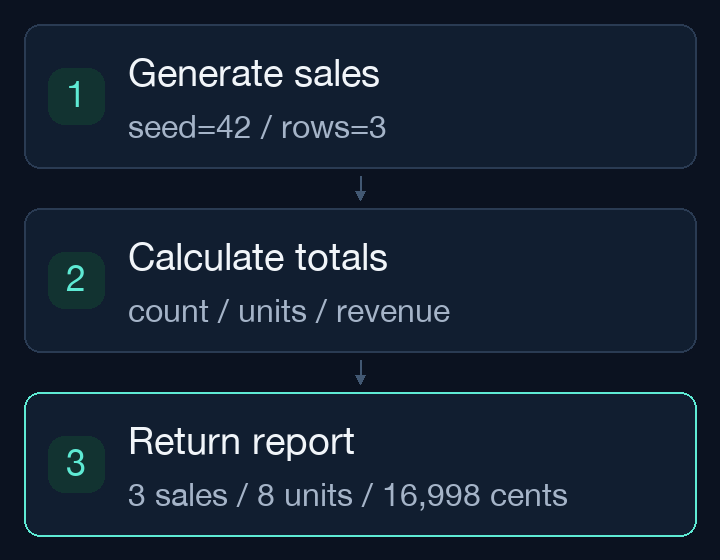
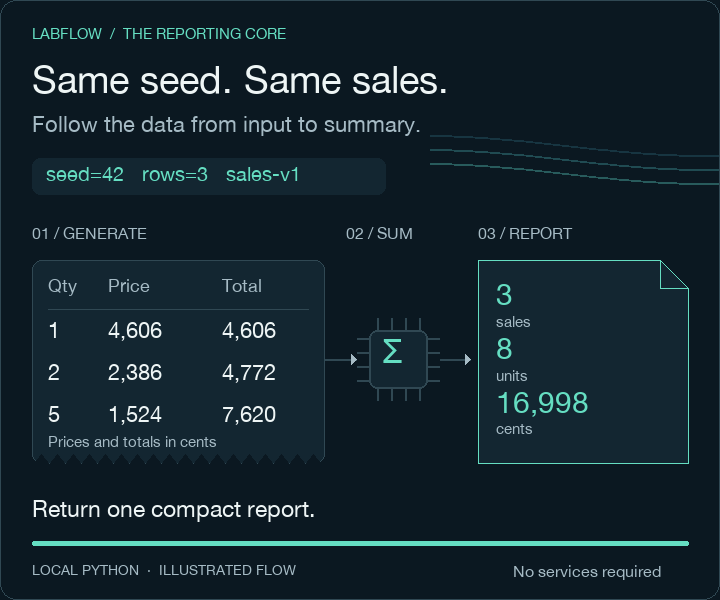
docs: animate README and explain job architecture

diff --git a/.github/scripts/render_readme_assets.py b/.github/scripts/render_readme_assets.py
@@ -1,17 +1,26 @@
 """Render the illustrative local-calculation flow used in the README."""
 
 from dataclasses import dataclass
+from functools import cache
+from math import pi, sin
 from pathlib import Path
 
 from PIL import Image, ImageDraw, ImageFont
 
+from labflow.reporting import summarize_sales
+from labflow.synthetic import GENERATOR_VERSION, generate_sales
+
 ROOT = Path(__file__).resolve().parents[2]
 ASSETS = ROOT / "docs" / "assets"
-SIZE = (720, 560)
-BACKGROUND = "#0b1220"
-TEXT = "#f1f5f9"
-MUTED = "#a5b4c8"
-ACCENT = "#5eead4"
+SIZE = (720, 600)
+BACKGROUND = "#0b1821"
+SURFACE = "#132631"
+TEXT = "#eef5f5"
+MUTED = "#a6bbc5"
+ACCENT = "#65dec2"
+LINE = "#304853"
+SALES = generate_sales(seed=42, rows=3)
+REPORT = summarize_sales(SALES)
 
 
 @dataclass(frozen=True)
@@ -20,9 +29,10 @@ class TextStyle:
 
     size: int
     color: str = TEXT
-    max_width: int = 544
+    max_width: int = 656
 
 
+@cache
 def font(size: int) -> ImageFont.FreeTypeFont:
     """Use an available TrueType font without distributing font files."""
     candidates = (
@@ -45,57 +55,141 @@ def text(
     face = font(style.size)
     if draw.textlength(value, font=face) > style.max_width:
         raise ValueError(f"Label exceeds allocated width: {value}")
-    draw.text(xy, value, font=face, fill=style.color)
+    draw.text(xy, value, font=face, fill=style.color, anchor="lt")
+
+
+def heading(draw: ImageDraw.ImageDraw, progress: float) -> None:
+    """Draw the title and a quiet wave motif without a hosted asset."""
+    for offset, color in ((0, "#173541"), (14, "#204b52"), (28, "#285b5c")):
+        points = [
+            (x, 145 + offset + round(10 * sin(x / 90 + progress * 2 * pi)))
+            for x in range(430, 721, 3)
+        ]
+        draw.line(points, fill=color, width=2)
+    text(draw, (32, 28), "LABFLOW  /  THE REPORTING CORE", TextStyle(15, ACCENT))
+    text(draw, (32, 65), "Same seed. Same sales.", TextStyle(38))
+    text(
+        draw, (32, 116), "Follow the data from input to summary.", TextStyle(22, MUTED)
+    )
+    draw.rounded_rectangle((32, 158, 385, 194), radius=8, fill=SURFACE)
+    text(
+        draw,
+        (46, 167),
+        f"seed=42   rows=3   {GENERATOR_VERSION}",
+        TextStyle(20, ACCENT, 325),
+    )
+
+
+def sales_sheet(draw: ImageDraw.ImageDraw, progress: float) -> None:
+    """Illustrate the three actual sample records as an itemized receipt."""
+    text(draw, (32, 227), "01 / GENERATE", TextStyle(16, MUTED, 292))
+    draw.rounded_rectangle((32, 260, 324, 463), radius=10, fill=SURFACE, outline=LINE)
+    for x in range(33, 317, 16):
+        draw.polygon(((x, 464), (x + 8, 454), (x + 16, 464)), fill=BACKGROUND)
+    for x, label in ((48, "Qty"), (108, "Price"), (222, "Total")):
+        text(draw, (x, 279), label, TextStyle(18, MUTED, 85))
+    draw.line((48, 309, 308, 309), fill=LINE, width=1)
+    for index, sale in enumerate(SALES):
+        top = 322 + index * 42
+        selected = 0.12 + index * 0.18 <= progress < 0.30 + index * 0.18
+        if selected:
+            draw.rounded_rectangle(
+                (41, top - 5, 315, top + 28), radius=5, fill="#234638"
+            )
+        values = (
+            str(sale.quantity),
+            f"{sale.unit_price_cents:,}",
+            f"{sale.total_cents:,}",
+        )
+        for x, value in zip((48, 108, 222), values):
+            text(draw, (x, top), value, TextStyle(22, ACCENT if selected else TEXT, 86))
+    text(draw, (48, 436), "Prices and totals in cents", TextStyle(15, MUTED, 260))
+
+
+def processor(draw: ImageDraw.ImageDraw, progress: float) -> None:
+    """Move one illustrated record at a time through the aggregation chip."""
+    text(draw, (346, 227), "02 / SUM", TextStyle(16, MUTED, 110))
+    working = 0.12 <= progress < 0.72
+    color = ACCENT if working else LINE
+    for position in range(338, 381, 14):
+        draw.line((357, position, 369, position), fill=color, width=2)
+        draw.line((427, position, 439, position), fill=color, width=2)
+    for position in range(377, 420, 14):
+        draw.line((position, 318, position, 330), fill=color, width=2)
+        draw.line((position, 388, position, 400), fill=color, width=2)
+    draw.rounded_rectangle(
+        (369, 330, 427, 388), radius=8, fill=SURFACE, outline=color, width=2
+    )
+    text(draw, (382, 339), "Σ", TextStyle(34, ACCENT, 38))
+    for start, end in ((325, 356), (440, 470)):
+        draw.line((start, 359, end, 359), fill=LINE, width=2)
+        draw.polygon(((end - 5, 354), (end, 359), (end - 5, 364)), fill=MUTED)
+    if working:
+        position = round(325 + ((progress - 0.12) / 0.18 % 1) * 145)
+        if position < 357 or position > 439:
+            draw.ellipse((position - 4, 355, position + 4, 363), fill=ACCENT)
+
+
+def report_sheet(draw: ImageDraw.ImageDraw, progress: float) -> None:
+    """Reveal the compact result after the illustrated calculation finishes."""
+    text(draw, (478, 227), "03 / REPORT", TextStyle(16, MUTED, 210))
+    ready = progress >= 0.72
+    draw.polygon(
+        ((478, 260), (660, 260), (688, 288), (688, 463), (478, 463)),
+        fill=SURFACE,
+        outline=ACCENT if ready else LINE,
+    )
+    draw.line((660, 260, 660, 288, 688, 288), fill=ACCENT if ready else LINE, width=1)
+    for top, label, key in (
+        (284, "sales", "sales_count"),
+        (338, "units", "units_sold"),
+        (392, "cents", "revenue_cents"),
+    ):
+        value = f"{REPORT[key]:,}" if ready else "—"
+        text(draw, (496, top), value, TextStyle(30, ACCENT if ready else MUTED, 170))
+        text(draw, (496, top + 32), label, TextStyle(15, MUTED, 170))
+
+
+def timeline(draw: ImageDraw.ImageDraw, progress: float) -> None:
+    """Show the current phase; timing is illustrative, never a benchmark."""
+    if progress < 0.12:
+        label = "Generate three reproducible sale records."
+    elif progress < 0.72:
+        label = "Count sales. Add units. Sum quantity × price."
+    else:
+        label = "Return one compact report."
+    text(draw, (32, 500), label, TextStyle(23))
+    draw.rounded_rectangle((32, 541, 688, 545), radius=2, fill=LINE)
+    draw.rounded_rectangle(
+        (32, 541, 33 + round(progress * 655), 545), radius=2, fill=ACCENT
+    )
+    text(draw, (32, 565), "LOCAL PYTHON  ·  ILLUSTRATED FLOW", TextStyle(14, MUTED))
+    text(draw, (513, 565), "No services required", TextStyle(16, MUTED, 175))
 
 
 def frame(progress: float) -> Image.Image:
-    """Illustrate generation, aggregation and a compact result."""
+    """Compose the receipt, computation and result at one animation position."""
     image = Image.new("RGB", SIZE, BACKGROUND)
     draw = ImageDraw.Draw(image)
-    cards = (
-        ("Generate sales", "seed=42 / rows=3"),
-        ("Calculate totals", "count / units / revenue"),
-        ("Return report", "3 sales / 8 units / 16,998 cents"),
-    )
-    active = min(int(progress * 3), 2)
-    for index, (title, detail) in enumerate(cards):
-        top = 24 + index * 184
-        draw.rounded_rectangle(
-            (24, top, 696, top + 144),
-            radius=16,
-            fill="#111e30",
-            outline=ACCENT if index == active else "#2a3b53",
-            width=2,
-        )
-        draw.rounded_rectangle(
-            (48, top + 44, 104, top + 100), radius=16, fill="#123331"
-        )
-        text(
-            draw,
-            (66, top + 48),
-            str(index + 1),
-            TextStyle(36, ACCENT if index <= active else MUTED, 40),
-        )
-        text(draw, (128, top + 25), title, TextStyle(38))
-        text(draw, (128, top + 83), detail, TextStyle(32, MUTED))
-    for top, bottom in ((176, 200), (360, 384)):
-        draw.line((360, top, 360, bottom - 7), fill="#425873", width=2)
-        draw.polygon(
-            ((355, bottom - 9), (360, bottom), (365, bottom - 9)), fill="#425873"
-        )
-    if active < 2:
-        fraction = progress * 3 - active
-        y = 176 + active * 184 + round(fraction * 17)
-        draw.ellipse((355, y - 5, 365, y + 5), fill=ACCENT)
+    draw.rounded_rectangle((0, 0, 719, 599), radius=16, outline=LINE)
+    heading(draw, progress)
+    sales_sheet(draw, progress)
+    processor(draw, progress)
+    report_sheet(draw, progress)
+    timeline(draw, progress)
     return image
 
 
 def main() -> None:
     """Write the animated and static assets with the same labels and layout."""
     ASSETS.mkdir(parents=True, exist_ok=True)
-    frames = [frame(index / 53) for index in range(54)]
+    frames = [frame(index / 71) for index in range(72)]
     frames[-1].save(ASSETS / "labflow-flow.png", optimize=True)
-    palette = frames[-1].quantize(colors=128, dither=Image.Dither.NONE)
+    # Include every phase so highlights and moving elements share stable colors.
+    samples = Image.new("RGB", (SIZE[0], SIZE[1] * 3))
+    for index, source in enumerate((frames[0], frames[30], frames[-1])):
+        samples.paste(source, (0, index * SIZE[1]))
+    palette = samples.quantize(colors=128, dither=Image.Dither.NONE)
     indexed = [
         image.quantize(palette=palette, dither=Image.Dither.NONE) for image in frames
     ]
@@ -103,7 +197,7 @@ def main() -> None:
         ASSETS / "labflow-flow.gif",
         save_all=True,
         append_images=indexed[1:],
-        duration=[80] * 53 + [1200],
+        duration=[90] * 71 + [1800],
         loop=0,
         optimize=True,
         disposal=1,

diff --git a/README.md b/README.md
@@ -9,17 +9,17 @@
 [![Style: Black](https://img.shields.io/badge/style-Black-111827?style=flat-square)](pyproject.toml)
 [![License: MIT](https://img.shields.io/badge/license-MIT-0D9488?style=flat-square)](LICENSE)
 
-[Quick start](#-quick-start) · [System design](#-system-design) · [Quality](#quality-and-ci) · [Roadmap](#-roadmap) · [Development](docs/development.md)
+[Quick start](#-quick-start) · [How it works](#-how-it-works) · [Quality](#-quality-and-ci) · [Roadmap](#-roadmap) · [Development](docs/development.md)
 
-LabFlow is a job-processing platform under development, built around reproducible reporting workloads. Its current Python core generates bounded synthetic sales and aggregates them into compact reports. The target platform adds asynchronous execution, durable job state, Kubernetes operations and measurable recovery behavior.
+LabFlow turns reproducible synthetic sales into compact reports. It is a public Platform Engineering and SRE lab for learning to operate asynchronous workloads, investigate failures and measure recovery.
 
-The project is developed publicly as a platform engineering and SRE lab, with product-oriented code, explicit contracts and reproducible experiments.
+**Running today:** a bounded Python generator and report aggregator. **Next:** durable jobs, asynchronous processing and observable Kubernetes operations.
 
-![LabFlow's implemented local calculation: generate three sales, aggregate them and return a report with three sales, eight units and 16,998 cents.](docs/assets/labflow-flow.png)
+![Animated illustration of LabFlow's local calculation: seed 42 generates three sales with quantities 1, 2 and 5; aggregation returns 3 sales, 8 units and 16,998 cents.](docs/assets/labflow-flow.gif)
 
-*Illustration of the implemented Python calculation, not a live execution trace. [View animation](docs/assets/labflow-flow.gif).*
+*Illustrated calculation; animation timing does not represent runtime or performance. [View the static diagram](docs/assets/labflow-flow.png).*
 
-## Current capabilities
+## 🧪 Current capabilities
 
 | Capability | State | Evidence |
 | --- | --- | --- |
@@ -78,33 +78,49 @@ Run the test suite from the repository root:
 - `summarize_sales` receives sale records and returns `sales_count`, `units_sold` and `revenue_cents`. Empty input returns three zeros.
 - Prices and revenue use integer cents. The input limit bounds one generation call; aggregate concurrency and job-cost controls are planned separately.
 
-## 🧭 System design
+## ⚙ How it works
 
-**Target architecture — the distributed components below are planned.** Today, only the generation and aggregation modules execute locally.
+### Today: the reporting core
+
+1. **Generate:** [`generate_sales`](src/labflow/synthetic.py) validates the seed and row limit, then creates the same sales for the same versioned inputs.
+2. **Calculate:** each sale exposes `total_cents = quantity × unit_price_cents`. [`summarize_sales`](src/labflow/reporting.py) counts sales, adds units and sums those totals.
+3. **Return:** the caller receives a dictionary containing three integers. There is no API, queue or database in this execution path yet.
+
+The animation uses the same `seed=42, rows=3` example as the quick start. Its numbers come from the Python functions when the assets are generated.
+
+### Target: durable, asynchronous jobs
+
+**Planned architecture.** The distributed components below are not implemented yet. The Mac will host the application core; Oracle will add worker capacity in a later milestone.
 
 ```mermaid
 flowchart TB
     client["Client / load generator"]
 
     subgraph core["Application core · Mac / Minikube"]
-        ingress["Traefik + TLS"] --> api["FastAPI"]
-        api -->|"job + outbox transaction"| db[("PostgreSQL")]
-        db -->|"pending events"| relay["Outbox publisher"]
-        relay --> jobs["Kafka · jobs"]
-        jobs --> worker["Worker replicas"]
-        worker --> results["Kafka · results"]
+        ingress["Traefik · TLS / HTTP routing"] --> api["FastAPI · submit / poll"]
+        api -->|"1 · job + outbox transaction"| db[("PostgreSQL · official state")]
+        db -->|"2 · committed outbox events"| relay["Outbox publisher"]
+        relay --> jobs
+
+        subgraph kafka["Kafka · one cluster"]
+            jobs["Jobs topic · versioned inputs"]
+            results["Results topic · compact summaries"]
+        end
+
+        jobs -->|"3 · consume"| worker["Local workers · generate + calculate"]
+        worker -->|"4 · publish outcome"| results
         results --> writer["Result consumer"]
-        writer -->|"persist result"| db
+        writer -->|"5 · deduplicate + persist"| db
     end
 
-    client --> ingress
+    client <-->|"HTTPS · submit job / query result"| ingress
 
-    subgraph remote["Later · Oracle / K3s"]
+    subgraph remote["Later · Oracle VM / K3s"]
         extra["Additional workers"]
     end
 
-    jobs -.->|"private connection"| extra
-    extra -.->|"compact results"| results
+    jobs -.->|"Tailscale · consume"| extra
+    extra -.->|"Tailscale · return outcome"| results
 
     classDef service fill:#eff6ff,stroke:#2563eb,color:#172554
     classDef data fill:#ecfdf5,stroke:#0d9488,color:#134e4a
@@ -114,7 +130,13 @@ flowchart TB
     class extra future
 ```
 
-Workers will generate data from versioned job inputs and return compact summaries. Remote workers will use the same Kafka topics and worker consumer group, with no direct PostgreSQL access.
+1. **Accept a job.** The API will record the job and its outbox event in one PostgreSQL transaction, then return a job identifier. Polling will read status and results from PostgreSQL.
+2. **Publish the work.** The outbox publisher will send committed events to Kafka. A crash after publishing can cause redelivery; accepted jobs must not silently disappear between the database write and publication.
+3. **Compute near the worker.** Workers will generate the dataset from small, versioned job inputs. Kafka will carry parameters and compact outcomes, not large datasets.
+4. **Return the outcome.** Workers will publish a result before committing their input offsets. Local and future Oracle workers will share the same job consumer group.
+5. **Persist once.** The result consumer will deduplicate final effects in PostgreSQL before committing result offsets. Computation may repeat; system-wide exactly-once processing is not a guarantee.
+
+Oracle workers will have no direct database access. Tailscale will connect the environments privately; Kafka, PostgreSQL and administrative interfaces will not be exposed directly to the internet. One Mac remains one physical failure domain.
 
 ### Reliability by design
 
@@ -137,7 +159,7 @@ Planned observability follows a clear path: application and infrastructure metri
 
 **Helm** will manage infrastructure components. **Kustomize** will define application bases and local/autoscaling overlays. **Argo CD** and digest-based image promotion through **GHCR** enter in the GitOps milestone. Initial HPA scaling uses Metrics Server; Prometheus provides operational visibility.
 
-## Quality and CI
+## 🛠 Quality and CI
 
 The [CI workflow](.github/workflows/ci.yml) defines three independent jobs:
 
@@ -186,7 +208,7 @@ src/labflow/
 tests/                         Unit and parametrized input tests
 ```
 
-## Contributing
+## 🤝 Contributing
 
 Keep changes focused, include relevant tests and run the checks in [the development guide](docs/development.md). Document behavior changes and operational assumptions. Use fictitious data and configuration placeholders; keep credentials and employer material outside the repository. Contributor and agent conventions are in [AGENTS.md](AGENTS.md).
 

diff --git a/docs/development.md b/docs/development.md
@@ -93,13 +93,15 @@ Historical prepublication scans covered an earlier set of files. Re-scan all cur
 
 ## README illustrations
 
-The README displays a static PNG of the current local calculation, with an optional link to the animated GIF. The three steps are stacked with larger labels for narrow screens. Both illustrate the calculation rather than a captured runtime trace or benchmark, and are generated from the checked-in script:
+The README displays the animated GIF directly and links to a static PNG. The receipt, aggregation chip and result sheet illustrate the current local calculation. Values come from `generate_sales(seed=42, rows=3)` and `summarize_sales`; animation timing is illustrative, not measured execution. Regenerate both assets with:
 
 ```bash
 .venv/bin/python .github/scripts/render_readme_assets.py
 ```
 
-Pillow is a hash-pinned development dependency, available to the editor and the repository-wide lint gate. It is documentation tooling and is not an application runtime dependency. Font availability can change rasterization between machines; labels and diagram content stay defined in source. Mermaid architecture diagrams remain editable directly in the README and are labelled as target architecture.
+Pillow is a hash-pinned development dependency, separate from application runtime dependencies. The generator draws the wave motif locally; the illustration requires no external image API or downloaded fonts. Font availability can change rasterization between machines. Review the opening, processing and completed frames, check readability at narrow widths, and keep the static alternative and descriptive alt text. GIF playback does not automatically follow reduced-motion preferences.
+
+The **How it works** section distinguishes the running Python core from the planned distributed system. Its Mermaid diagram remains editable in the README. Keep both the architecture labels and numbered explanation consistent with [the plan](plan.md).
 
 ## Changes and reviews
 
